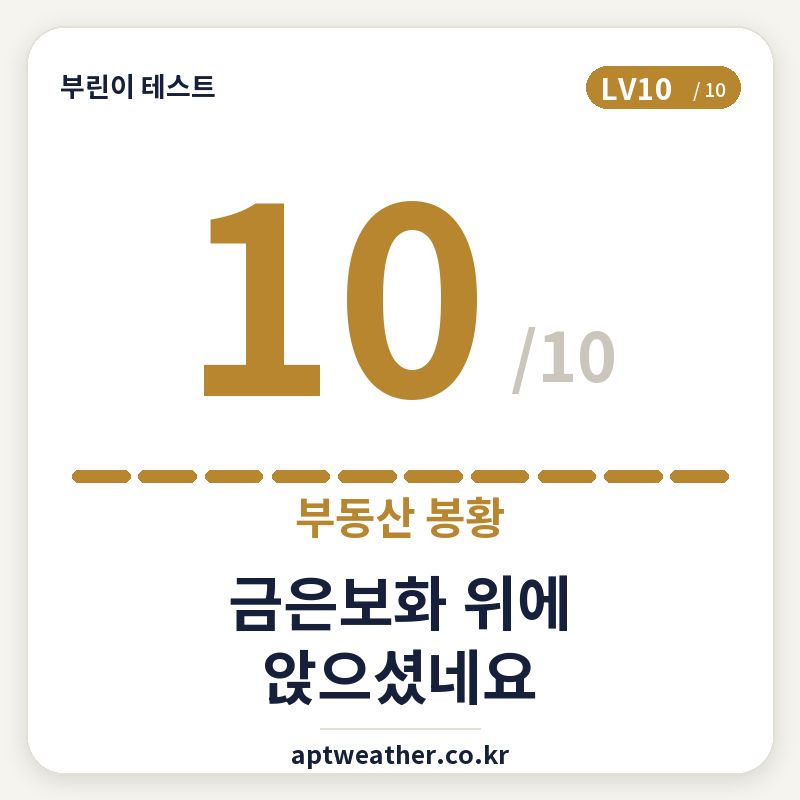
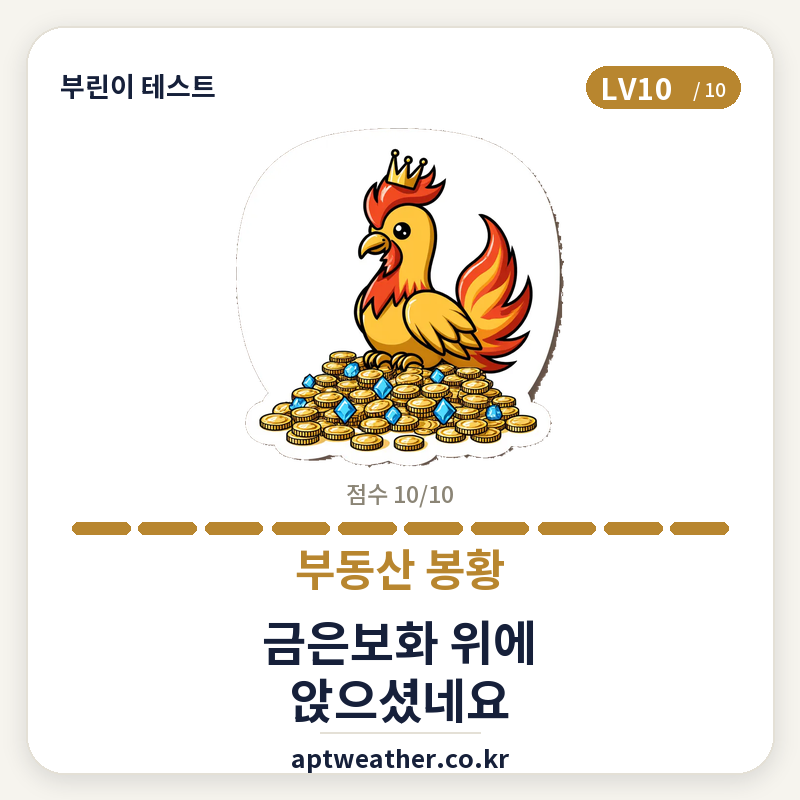
공유 카드 9장을 실사 아트로 교체 (달걀·부화·삐약이·병아리·영계·암탉·다주택자·거물·봉황)
- art_raw/raw-{0,1,2,3,4,5,8,9,10}: HF 생성 그림을 배경 제거해 카드 히어로에 합성
- cutout()을 일반화: 가장자리 flood-fill 후 '가장 큰 연결 성분'만 남겨
  점선 테두리·드롭섀도우 같은 스티커 프레임 잔여물을 자동으로 걸러냄
  (레벨3의 점선 원 테두리가 552개 조각으로 분리 → 병아리 몸통만 남기고 제거)
  이미 알파 채널이 있는 사전 가공 PNG는 그대로 통과
- 실사 아트 프레임의 세로 간격을 재조정해 도발 문구 하단 줄이 푸터와 겹치던 문제 수정
- 레벨6(스타일 불일치)·레벨7(입 2개·눈 위치 오류)은 원본 결함으로 카드에 반영하지 않고
  v3 폴백(점수 숫자 히어로) 유지 — 사용자 재생성 요청 예정

Changed region(s): [[0.0938, 0.1875, 0.9062, 0.9688]]

diff --git a/tools/make_beginner_cards.py b/tools/make_beginner_cards.py
@@ -78,22 +78,72 @@ def find_art(art_dir, score):
     return None
 
 
-def cutout(path, thresh=42):
-    """단색 배경을 가장자리 flood-fill로 투명 처리하고 내용만 트림."""
-    im = Image.open(path).convert('RGB')
+def _largest_component(opaque):
+    """opaque: 2D bool ndarray. 가장 큰 4연결 성분만 True로 남긴 마스크를 반환.
+    (점선 테두리·드롭섀도우처럼 배경 flood-fill 뒤에도 남는 얇은 조각을 걸러낸다.)"""
+    import numpy as np
+    from collections import deque
+    H, W = opaque.shape
+    labels = np.zeros((H, W), dtype=np.int32)
+    visited = np.zeros((H, W), dtype=bool)
+    cur = 0
+    sizes = [0]
+    for y in range(H):
+        row = opaque[y]
+        for x in range(W):
+            if row[x] and not visited[y, x]:
+                cur += 1
+                q = deque([(y, x)])
+                visited[y, x] = True
+                size = 0
+                while q:
+                    cy, cx = q.popleft()
+                    labels[cy, cx] = cur
+                    size += 1
+                    for dy, dx in ((1, 0), (-1, 0), (0, 1), (0, -1)):
+                        ny, nx = cy + dy, cx + dx
+                        if 0 <= ny < H and 0 <= nx < W and opaque[ny, nx] and not visited[ny, nx]:
+                            visited[ny, nx] = True
+                            q.append((ny, nx))
+                sizes.append(size)
+    if cur == 0:
+        return opaque
+    biggest = int(np.argmax(sizes))
+    return labels == biggest
+
+
+def cutout(path, thresh=48):
+    """배경 제거 + 내용만 트림.
+    이미 알파 채널이 있는 소스(사전 가공된 PNG)는 그대로 크롭만 한다.
+    그 외에는 가장자리 flood-fill로 배경을 지운 뒤, 점선 테두리·드롭섀도우 같은
+    잔여 조각을 떨어내기 위해 가장 큰 연결 성분(피사체)만 남긴다."""
+    import numpy as np
+    src = Image.open(path)
+    if src.mode == 'RGBA':
+        alpha = src.getchannel('A')
+        if alpha.getextrema()[0] < 250:
+            bbox = src.getbbox()
+            return src.crop(bbox) if bbox else src
+
+    im = src.convert('RGB')
     w, h = im.size
     key = (255, 0, 255)
     seeds = [(1, 1), (w - 2, 1), (1, h - 2), (w - 2, h - 2),
              (w // 2, 1), (w // 2, h - 2), (1, h // 2), (w - 2, h // 2)]
     for sd in seeds:
         ImageDraw.floodfill(im, sd, key, thresh=thresh)
+
+    arr = np.array(im)
+    opaque = ~np.all(arr == np.array(key), axis=2)
+    keep = _largest_component(opaque)
+
     px = im.load()
     out = Image.new('RGBA', (w, h), (0, 0, 0, 0))
     op = out.load()
     for y in range(h):
         for x in range(w):
-            c = px[x, y]
-            if c != key:
+            if keep[y, x]:
+                c = px[x, y]
                 op[x, y] = (c[0], c[1], c[2], 255)
     bbox = out.getbbox()
     return out.crop(bbox) if bbox else out
